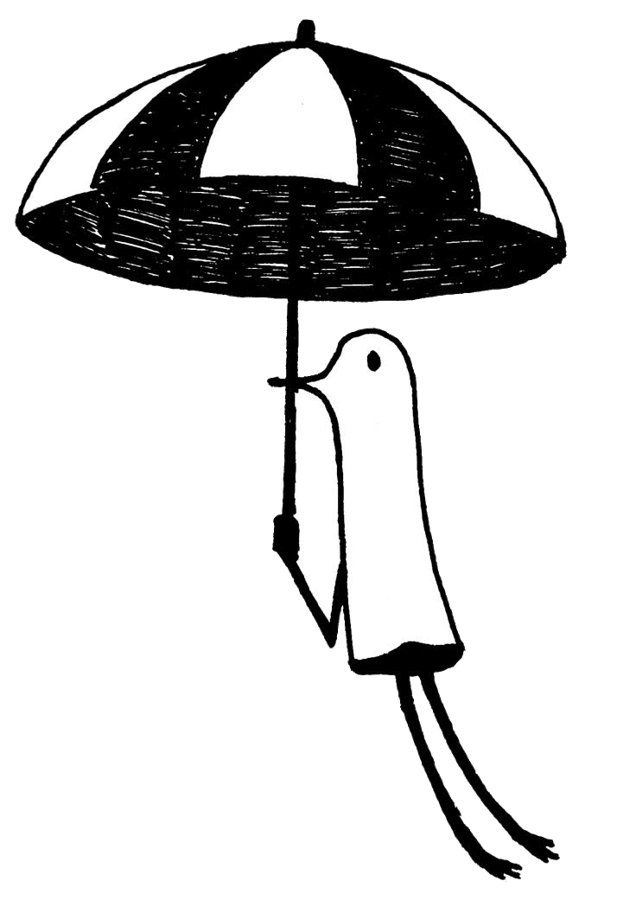
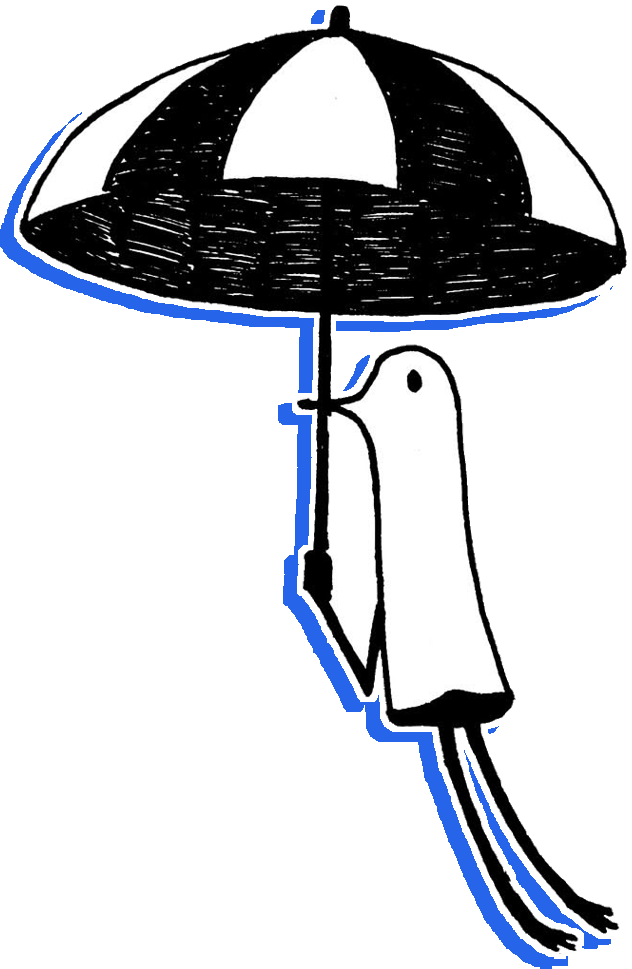
Add files via upload

diff --git a/css/style.css b/css/style.css
@@ -318,7 +318,6 @@ body[data-screen]:not([data-screen="home"]) #slash{
 body[data-screen]:not([data-screen="home"]) #hero-art{
   transform:translateX(60%) skewX(-6deg);opacity:0;
 }
-@media (max-width:900px){#hero-art{max-width:70vw;opacity:.5;}}
 
 /* 2. Project card thumbnails */
 .card .thumb{
@@ -591,21 +590,46 @@ body.has-art-home #big-name .ch:not(.box):not(.boxw){
   font-weight: 700;
 }
 /* ============ PUNPUN ADDITIONS ============ */
-/* hero: white outline so the black umbrella reads on the black slash */
-#hero-art{
-  filter:drop-shadow(3px 0 0 #fff) drop-shadow(-3px 0 0 #fff) drop-shadow(0 3px 0 #fff) drop-shadow(0 -3px 0 #fff)
-         drop-shadow(-14px 10px 0 rgba(0,73,230,.85));
-  transform-origin:50% 12%;animation:birdSway 5s ease-in-out infinite alternate;
+/* hero art has its white outline + blue shadow baked into the PNG, so no runtime filters */
+#hero-art{filter:none;}
+@media (pointer:fine){
+  #hero-art{transform-origin:50% 12%;animation:birdSway 5s ease-in-out infinite alternate;}
 }
 body[data-screen]:not([data-screen="home"]) #hero-art{animation:none;}
 @keyframes birdSway{from{transform:rotate(-2deg);}to{transform:rotate(2deg);}}
-/* video cards */
+
+/* video cards: thumbnail first, player loads on tap */
 .vcard .frame{aspect-ratio:16/9;background:var(--black);margin:-20px -22px 16px;position:relative;
   clip-path:polygon(0 0,100% 0,100% 94%,0 100%);}
 .vcard iframe{position:absolute;inset:0;width:100%;height:100%;border:0;}
+.vcard .play{position:absolute;inset:0;width:100%;height:100%;border:0;padding:0;cursor:pointer;background:#000;}
+.vcard .play img{width:100%;height:100%;object-fit:cover;opacity:.8;display:block;}
+.vcard .play::after{content:"\25B6";position:absolute;left:50%;top:50%;
+  transform:translate(-50%,-50%) skewX(-8deg);background:var(--red);color:#fff;
+  font-size:26px;padding:10px 24px;box-shadow:5px 5px 0 #000;}
 .vcard:hover{transform:rotate(0deg) scale(1.01) !important;}
 .card .meta a.go{text-decoration:none;}
 #video-grid{padding-bottom:6vh;grid-template-columns:repeat(auto-fill,minmax(min(100%,380px),1fr));}
-.credit{margin-top:-2vh;padding-bottom:5vh;font-size:14px;letter-spacing:.08em;opacity:.9;
+.credit{margin-top:-2vh;margin-bottom:5vh;font-size:14px;letter-spacing:.08em;
   background:var(--black);padding:6px 12px;display:inline-block;}
 .credit a{color:var(--white);}
+#tagline{width:fit-content;}
+
+/* ============ PHONES / TOUCH: lighter + laid out properly ============ */
+@media (hover:none), (max-width:820px){
+  #bg{inset:0;}
+  #bg-stripes,#bg-halftone,.bg-star{animation:none;}
+  .bg-star{display:none;}
+  #bg-halftone{mix-blend-mode:normal;opacity:.45;}
+  .menu-art{will-change:auto;}
+  .card,.card.feat,.card.feat:hover{filter:none;}
+  .vcard{border-bottom:6px solid var(--red-deep);}
+  #hud-bottom{display:none;}
+  #shell{height:100vh;height:100dvh;}
+  #hero-art{height:36vh;max-width:44vw;opacity:1;}
+  #big-name .ransom{font-size:15vw;}
+  #intro-eyebrow{letter-spacing:.22em;}
+  .menu-item .ransom{font-size:40px;}
+  #tagline{max-width:60%;}
+  .about-photo{width:min(200px,45%);}
+}

diff --git a/js/view.js b/js/view.js
@@ -122,13 +122,22 @@ el.appendChild(span);
       card.style.setProperty("--tilt", ((this.hash(v.id) % 5) - 2) * 0.8 + "deg");
       card.style.setProperty("--d", i * 90 + "ms");
       card.innerHTML = `
-        <div class="frame"><iframe data-src="https://www.youtube-nocookie.com/embed/${v.id}"
-          title="YouTube video ${i + 1}" referrerpolicy="strict-origin-when-cross-origin" allow="accelerometer; encrypted-media; picture-in-picture"
-          allowfullscreen></iframe></div>
+        <div class="frame"><button class="play" type="button" aria-label="Play video ${i + 1}">
+          <img src="https://i.ytimg.com/vi/${v.id}/hqdefault.jpg" alt="" loading="lazy"></button></div>
         <span class="lang" style="--lc:#ff3b3b">YouTube</span>
         <h3></h3>
         <div class="meta"><span>#${i + 1}</span>
           <a class="go" href="https://www.youtube.com/watch?v=${v.id}" target="_blank" rel="noopener">Open on YouTube</a></div>`;
+      // Light page: the heavy YouTube player only loads when you tap play
+      card.querySelector(".play").addEventListener("click", e => {
+        const f = document.createElement("iframe");
+        f.src = `https://www.youtube-nocookie.com/embed/${v.id}?autoplay=1&playsinline=1`;
+        f.title = "YouTube video " + (i + 1);
+        f.setAttribute("allow", "autoplay; accelerometer; encrypted-media; picture-in-picture");
+        f.setAttribute("referrerpolicy", "strict-origin-when-cross-origin");
+        f.allowFullscreen = true;
+        e.currentTarget.parentElement.replaceChildren(f);
+      });
       const h3 = card.querySelector("h3");
       this.setTitle(h3, "Video " + (i + 1));
       Model.fetchTitle(v.id).then(t => { if (t) this.setTitle(h3, t); });
@@ -136,15 +145,9 @@ el.appendChild(span);
     });
   },
 
-  // Start loading the players only once the Videos screen is opened
-  loadFrames() {
-    this.els.videoGrid.querySelectorAll("iframe[data-src]").forEach(f => {
-      f.src = f.dataset.src; f.removeAttribute("data-src");
-    });
-  },
-
   /* ---------- Ambient: clock, parallax, animated cursor ---------- */
   startClock() {
+    if (matchMedia("(pointer:coarse)").matches) return;
     setInterval(() => {
       this.els.clock.textContent =
         new Date().toLocaleTimeString([], { hour: "2-digit", minute: "2-digit" }) ;
@@ -152,7 +155,7 @@ el.appendChild(span);
   },
 
   startParallax() {
-    if (this.reducedMotion) return;
+    if (this.reducedMotion || matchMedia("(pointer:coarse)").matches) return;
     const stripes = document.getElementById("bg-stripes");
     const halftone = document.getElementById("bg-halftone");
     const arts = [...document.querySelectorAll(".menu-art")];

diff --git a/index.html b/index.html
@@ -46,7 +46,7 @@
 
 <!-- Custom animated cursor + select sound -->
 <div id="cursor" aria-hidden="true"></div>
-<audio id="sfx-select" src="assets/sfx/select.mp3" preload="auto"></audio>
+<audio id="sfx-select" src="assets/sfx/select.mp3" preload="metadata"></audio>
 
 <div id="shell">
   <div id="hud-top">
@@ -79,7 +79,7 @@
     <!-- VIDEOS -->
     <section class="screen sub" id="screen-projects" aria-label="Videos">
       <div class="screen-head"><span class="ransom" data-ransom="VIDEOS"></span></div>
-      <button class="back-hint" data-back>ESC · Back</button>
+      <button class="back-hint" data-back>Back</button>
       <div class="grid-label"><span class="bar"></span>Watch</div>
       <div id="video-grid" class="grid"></div>
     </section>
@@ -87,20 +87,14 @@
     <!-- ABOUT -->
     <section class="screen sub align-right" id="screen-about" aria-label="About">
       <div class="screen-head"><span class="ransom" data-ransom="ABOUT"></span></div>
-      <button class="back-hint" data-back>ESC · Back</button>
+      <button class="back-hint" data-back>Back</button>
       <div class="paper">
         <figure class="about-photo">
           <img src="assets/me.jpg" alt="Punpun, a bird figure holding a black and white umbrella">
           <figcaption>PUNPUN</figcaption>
         </figure>
         <p class="quote">
-          <strong class="about-highlight">not just a bird.</strong>
-        </p>
-        <br>
-        <p>
-          I'm <strong class="about-highlight">punpun</strong>.
-          This is where my channel lives:
-          the videos, and every place you can find me.
+          <strong class="about-highlight">ur fav bird has to be ME</strong>
         </p>
       </div>
     </section>
@@ -108,7 +102,7 @@
     <!-- SOCIALS -->
     <section class="screen sub align-right" id="screen-contact" aria-label="Socials">
       <div class="screen-head"><span class="ransom" data-ransom="SOCIALS"></span></div>
-      <button class="back-hint" data-back>ESC · Back</button>
+      <button class="back-hint" data-back>Back</button>
       <div class="paper" style="max-width:620px">
         <p><strong>I HOPE THAT YOU NEVER FORGET ME</strong></p>
       </div>

diff --git a/js/controller.js b/js/controller.js
@@ -41,7 +41,6 @@ goTo(screen) {
   /* ---------- Screen data loading ---------- */
   loadVideos() {
     View.renderVideos(Model.videos);
-    View.loadFrames();
     Model.state.videosLoaded = true;
   },
 
